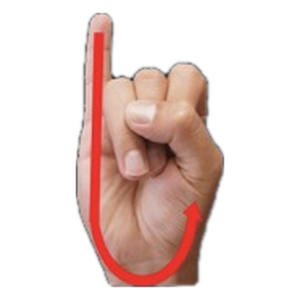
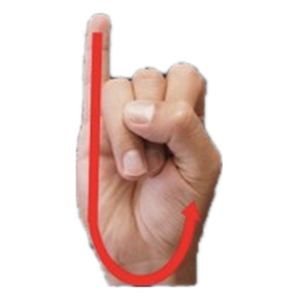
Stickers LSM con todos los detalles de la mano (sombras, pliegues) y orillas limpias
Claude-Session: https://claude.ai/code/session_015Bpbc8EAm3Wz5jihEE32WP

diff --git a/plantilla/recortar_abecedario.py b/plantilla/recortar_abecedario.py
@@ -44,7 +44,7 @@ im = Image.open(sys.argv[1]).convert('RGB'); W, H = im.size
 a = np.asarray(im).astype(np.float32)
 bg = np.median(a[5:25, 5:200].reshape(-1, 3), axis=0)
 dist = np.sqrt(((a - bg) ** 2).sum(axis=2))
-alfa = np.clip((dist - 28) / 30, 0, 1)
+alfa = np.clip((dist - 7) / 9, 0, 1)  # el fondo es un gris parejo: todo lo que se aparte un poco es mano (sombras incluidas)
 
 # filas con contenido
 on = (alfa > .5).sum(axis=1) > 3
@@ -68,8 +68,14 @@ for k, l in enumerate(LETRAS):
         # hueco chico (sombra dentro de la mano) → se rellena; hueco grande (fondo real) → se queda
         if m.sum() < .04 * area:
             A[m] = 1
-    msk = Image.fromarray((A * 255).astype(np.uint8)).filter(ImageFilter.MedianFilter(5)).filter(ImageFilter.GaussianBlur(.8))
-    cel = im.crop((x0, y0, x1, y1)); cel.putalpha(msk)
+    msk = Image.fromarray((A * 255).astype(np.uint8)).filter(ImageFilter.MedianFilter(3)).filter(ImageFilter.GaussianBlur(.6))
+    # orillas limpias: se le resta el gris del fondo a los píxeles semitransparentes y se adelgaza 1 px el borde
+    msk = msk.filter(ImageFilter.MinFilter(3)).filter(ImageFilter.GaussianBlur(.5))
+    al = np.asarray(msk).astype(np.float32)[..., None] / 255
+    rgb = a[y0:y1, x0:x1]
+    al_col = np.clip(alfa[y0:y1, x0:x1][..., None], .25, 1)
+    limpio = np.clip((rgb - (1 - al_col) * bg) / al_col, 0, 255)
+    cel = Image.fromarray(limpio.astype(np.uint8)); cel.putalpha(msk)
     cel = cel.crop(cel.getchannel('A').point(lambda v: 255 if v > 60 else 0).getbbox())
     s = max(cel.size) + 16
     sq = Image.new('RGBA', (s, s), (0, 0, 0, 0)); sq.paste(cel, ((s - cel.size[0]) // 2, (s - cel.size[1]) // 2))
